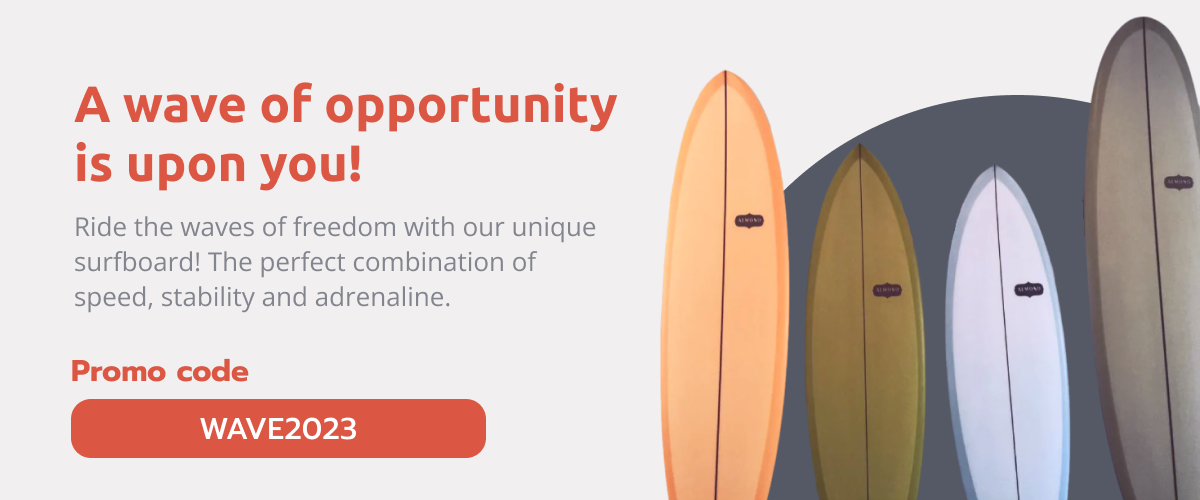
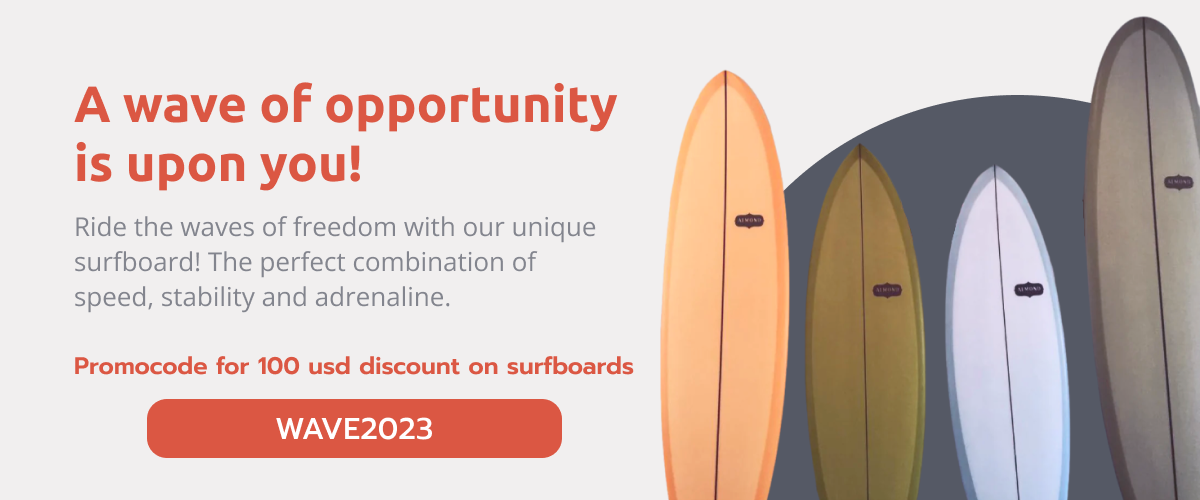
feat: change syles and promo codes

Changed region(s): [[0.0617, 0.69, 0.5242, 0.93], [0.1542, 0.81, 0.37, 0.9], [0.4008, 0.78, 0.4933, 0.93]]

diff --git a/src/app/components/main/main.ts b/src/app/components/main/main.ts
@@ -4,7 +4,6 @@ import Swiper from 'swiper';
 import 'swiper/css';
 import 'swiper/css/navigation';
 import 'swiper/css/pagination';
-import './main.css';
 
 import ads1 from '../../../assets/img/advertisement/ads1.png';
 import ads2 from '../../../assets/img/advertisement/ads2.png';
@@ -27,7 +26,7 @@ import { ElementAnchorCreator } from '../../utils/element-creator/element-anchor
 const advertisement = [
   { img: ads1, href: '/categories/water-sports-gear' },
   { img: ads2, href: '/categories/summer-time' },
-  { img: ads3, href: '/categories/ice-adventures' },
+  { img: ads3, href: '/categories' },
 ];
 
 export class Main implements Observer {

diff --git a/src/styles/styles.css b/src/styles/styles.css
@@ -19,3 +19,7 @@ input[type="checkbox"]:not(:disabled) + label {
 label {
   user-select: none;
 }
+
+.swiper-pagination {
+  --swiper-pagination-color: var(--main-color);
+}
